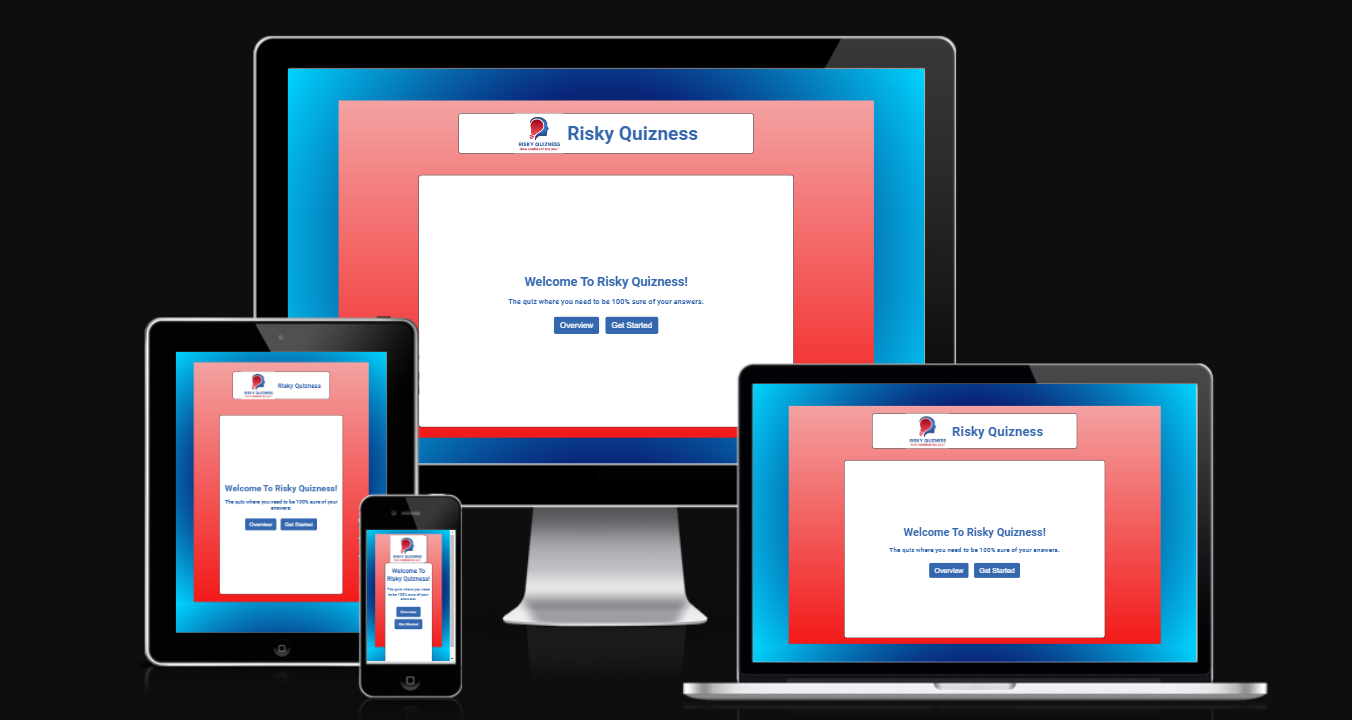
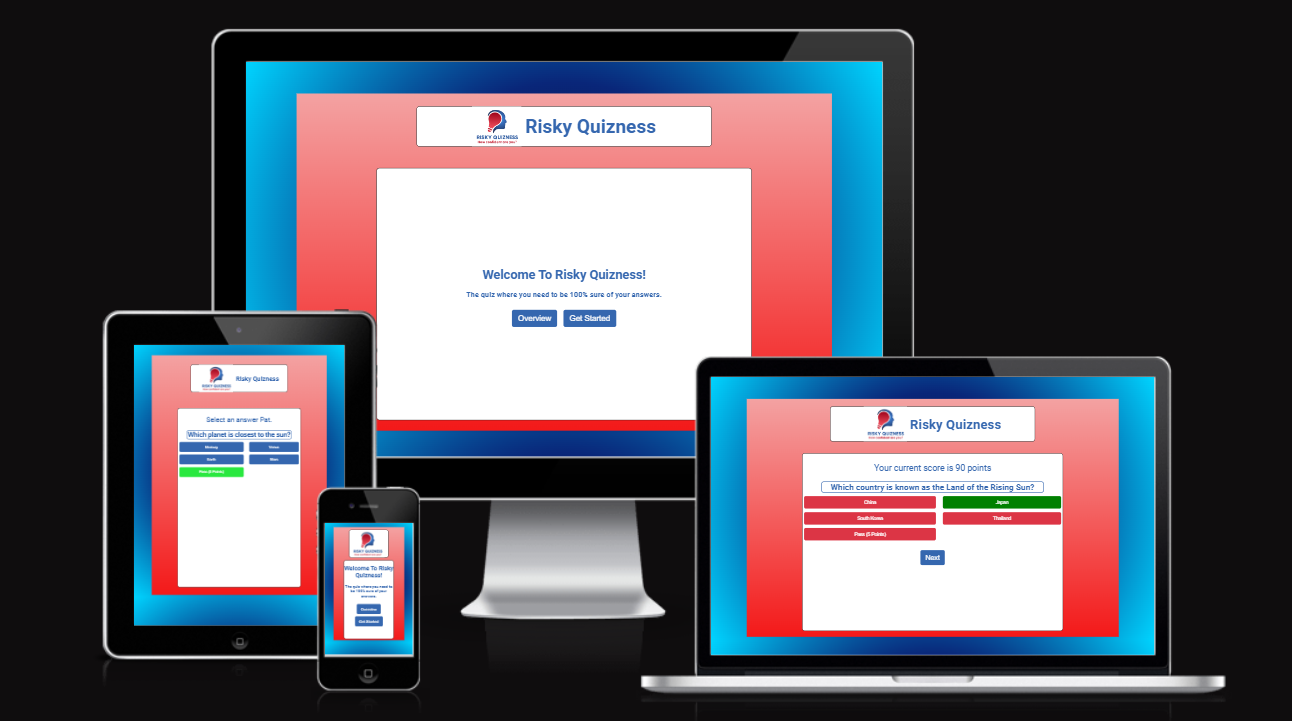
Add to readme

diff --git a/README.md b/README.md
@@ -40,8 +40,41 @@ I wanted to present the site on one page with no links using Javascript to manip
 ![](assets/images/readme-images/mockflow2.png)
 ![](assets/images/readme-images/mockflow3.png)
 
-
+## User Flow
 The entire quiz is hosted within one page. There are three divs of which only one will display at any time. There is a welcome / landing page div, a user signup div and a quiz div. Within the quiz div itself Javascript is further used to display or not display elements such as questions and results. 
+
+**Welcome View**
+
+![](assets/images/readme-images/userflow1.png)  
+The user is presented with a welcome screen from which they can choose to get an overview of the rules or to start a game.
+
+**Overview**
+![](assets/images/readme-images/userflow2.png)
+Overview displays as a modal over the page. 
+
+**Username Entry**
+![](assets/images/readme-images/userflow3.png)  
+User name is captured and stored for future reference.
+
+**Good Luck Message**
+![](assets/images/readme-images/userflow4.png)  
+A good luck message is displayed and quiz starts when start is pressed.
+
+**Questions**
+![](assets/images/readme-images/userflow5.png)  
+![](assets/images/readme-images/userflow6.png)  
+Each question has 4 answers along with an option to pass if not sure of the answer. Pass option is highlighted in different colour to other options. The user welcome message is replaced with quiz related messages and current scoring.
+
+**Answer Feedback**
+![](assets/images/readme-images/userflow7.png) 
+After each answer the correct answer is highlighted.
+
+**End Quiz**
+![](assets/images/readme-images/userflow8.png)  
+Score is given along with options to restart with current player or go back to main page to register a new player.
+
+
+
 
 
 
